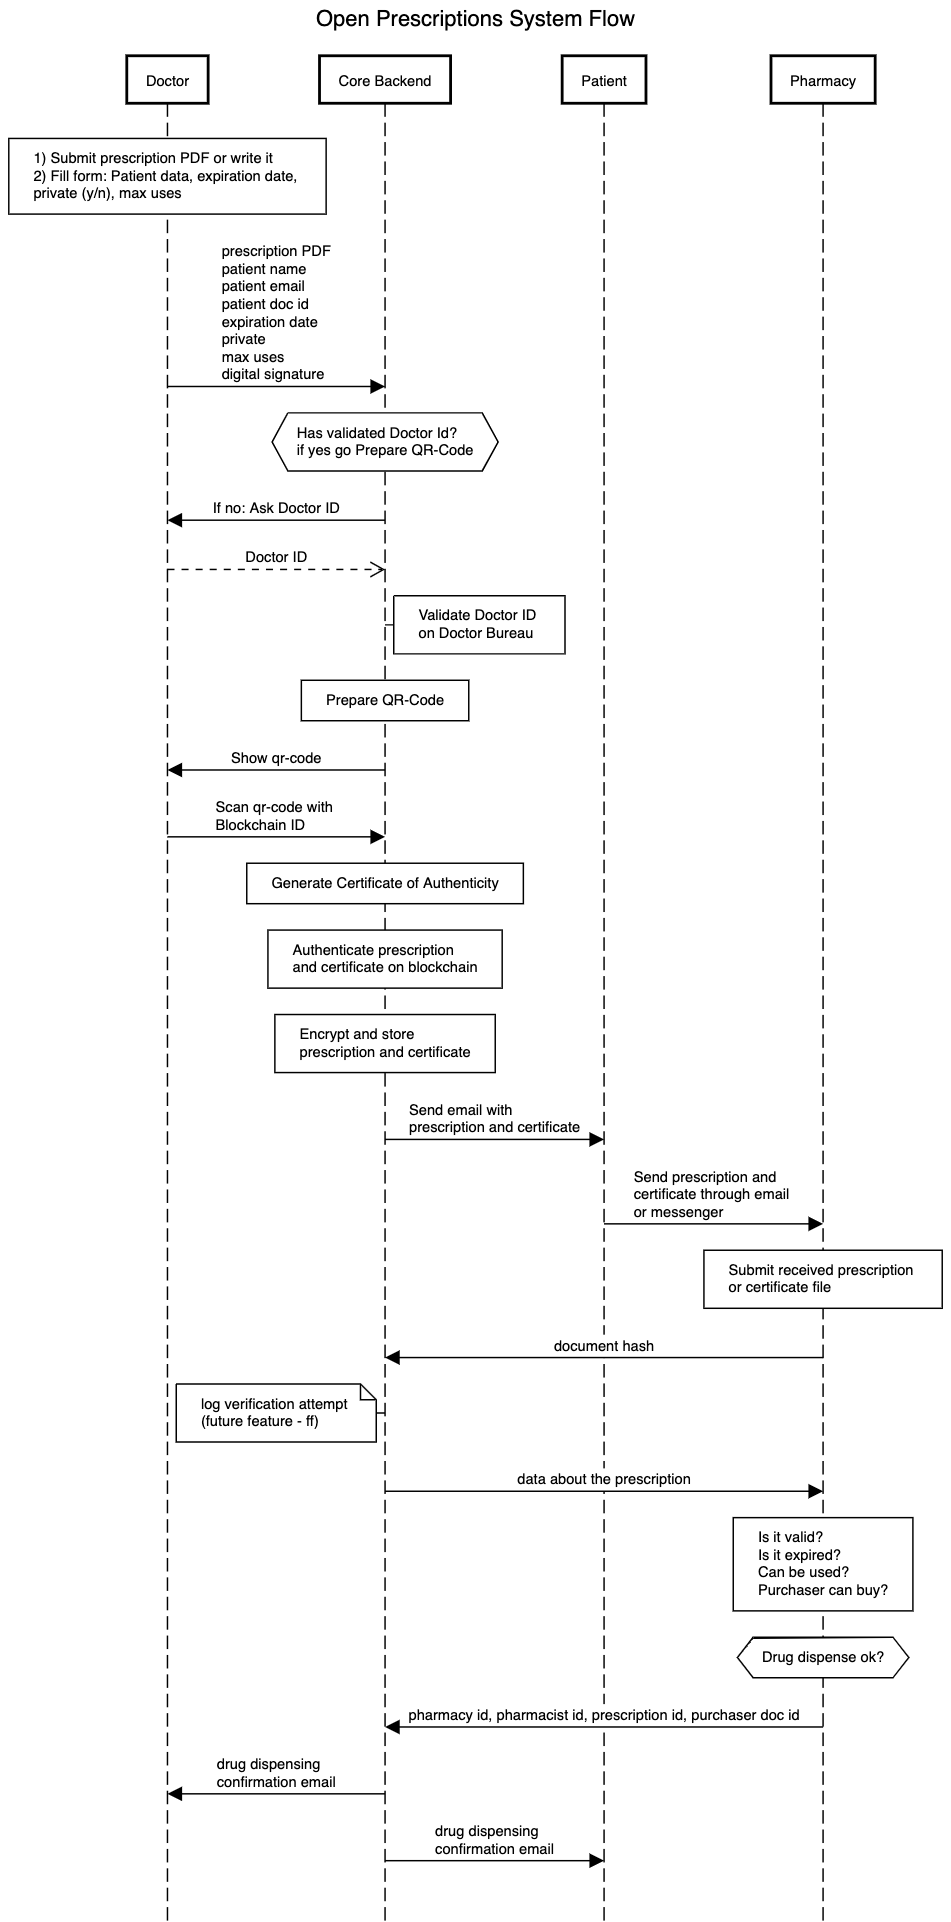
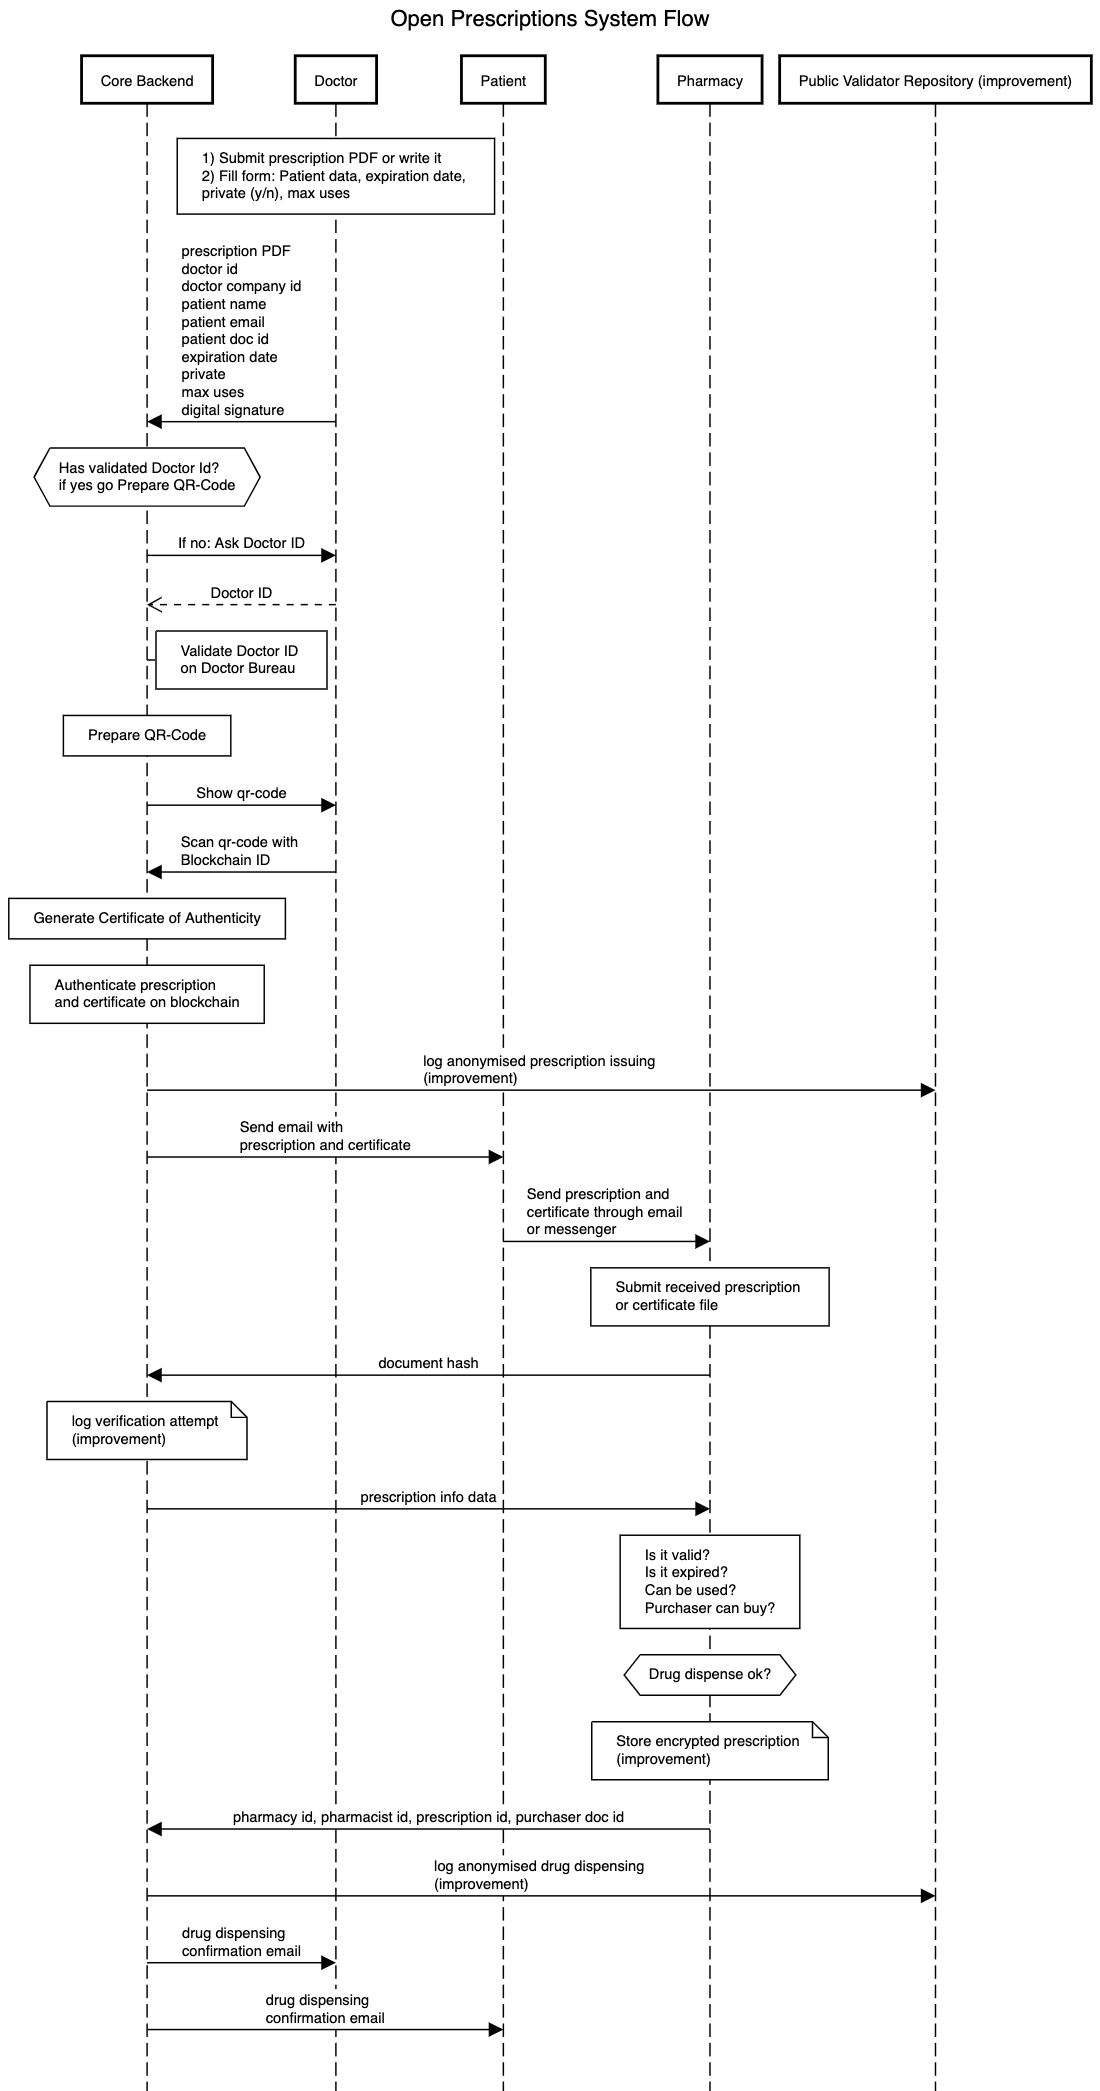
Update docs over development (#3)
* add contributor

* update system flow

* update initial db structure

* update user flow (#2)

diff --git a/README.md b/README.md
@@ -48,6 +48,7 @@ Through countries API's or platforms to check the doctor speciality and their re
 ### Sponsors, partnerships and contributors
 * [OriginalMy](https://originalmy.com)
 * [E-Pro Saúde](http://e-prosaude.com.br)
+* [Digital Republic](https://digitalrepublic.com.br/)
 
 
 ### License
